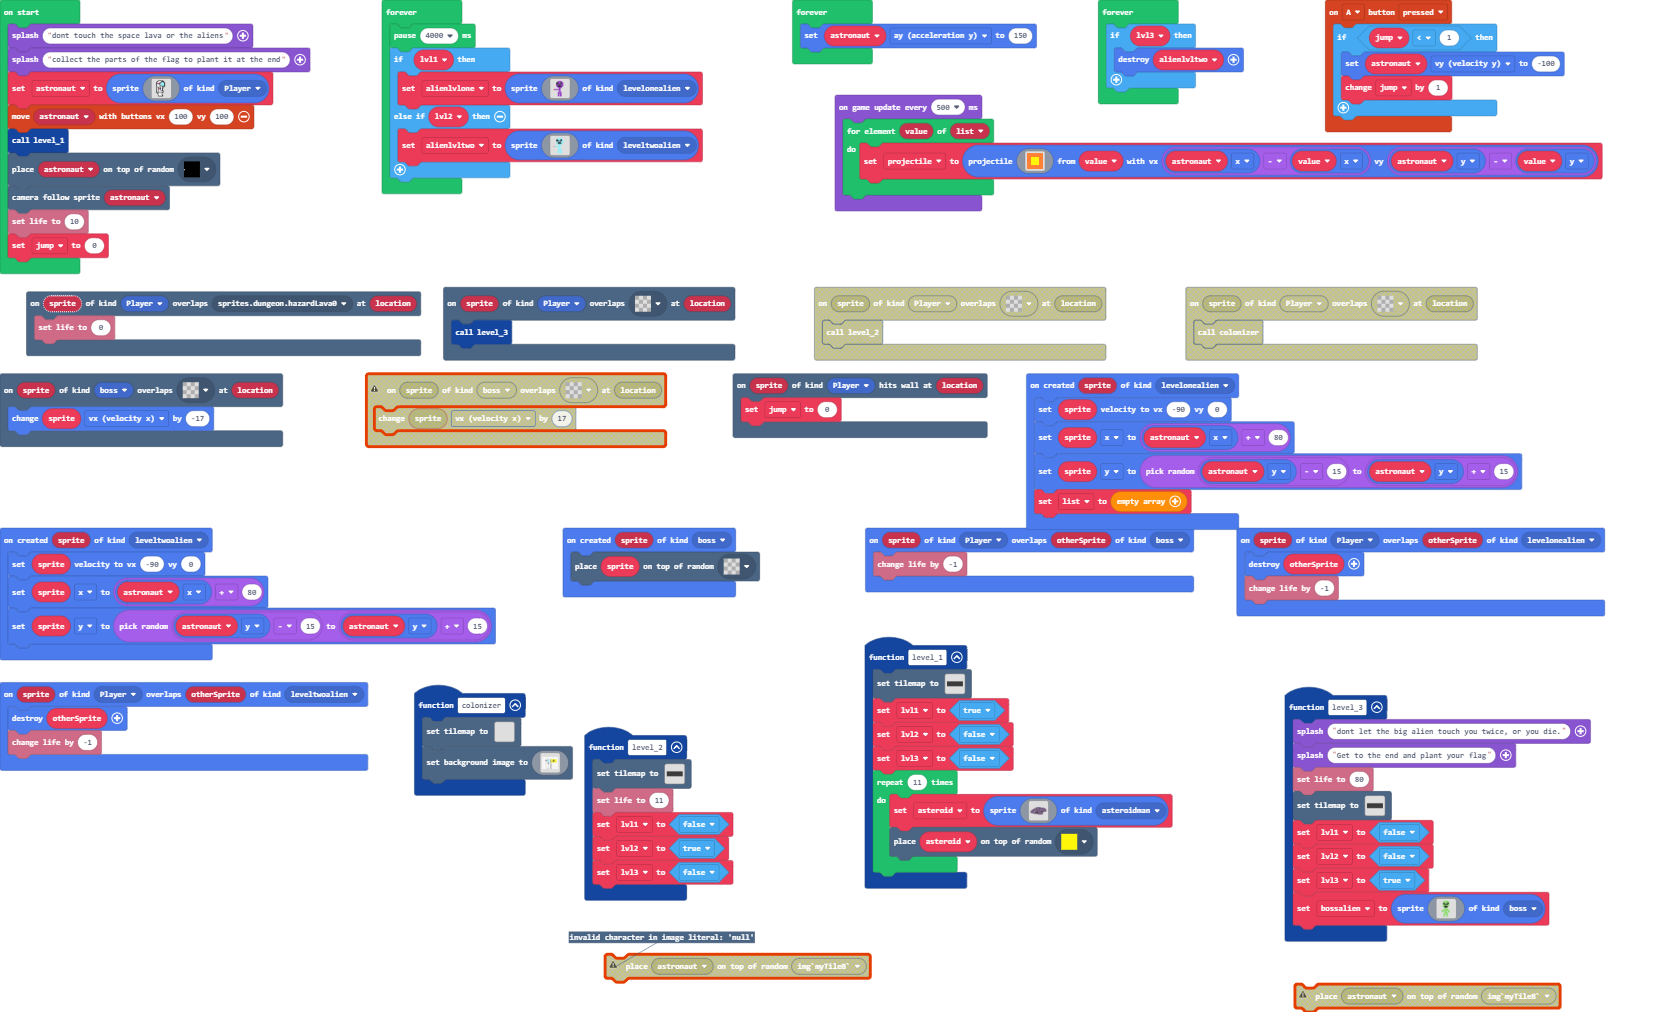
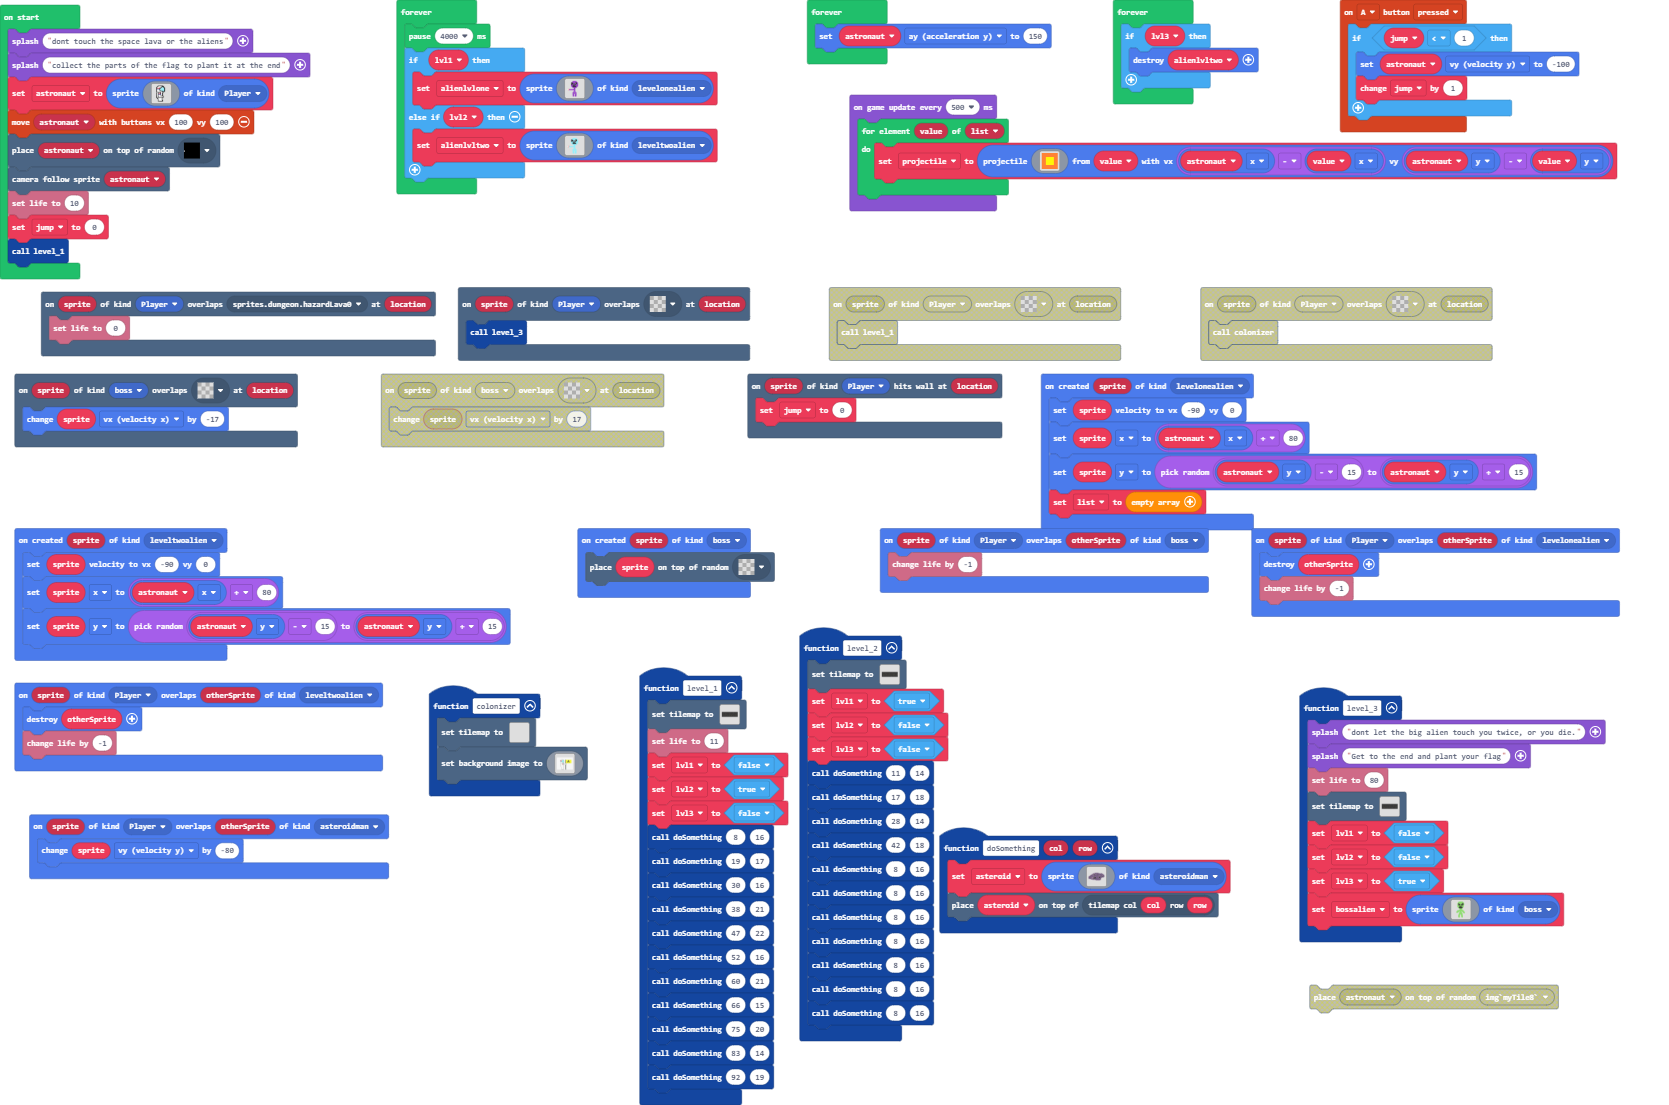
asteroid position

diff --git a/main.ts b/main.ts
@@ -163,12 +163,47 @@ sprites.onCreated(SpriteKind.levelonealien, function (sprite) {
 scene.onOverlapTile(SpriteKind.boss, assets.tile`transparency16`, function (sprite, location) {
     sprite.vx += -17
 })
+function doSomething (col: number, row: number) {
+    asteroid = sprites.create(img`
+        ........................................
+        ................ccccccccc...............
+        ............cccccccccccccccc..ccc.......
+        ..........ccbbbbccccbccccccccccccccc....
+        .........ccbbffbbcccbffbccccccccccccc...
+        .......cccbccffcbcccbbfbcccccccccccccc..
+        ......cccccbbfcfccccccccccccccccccbbccc.
+        ....ccccccccbbcccccccccccccbccccccbfbcc.
+        ...ccccccccccccccccccccccccbcbbfcbbffccc
+        .ccccccccccccccccccccccccbbbccbfcccfcccc
+        cccccccccccccccbbbbbcccccbffccccccccccc.
+        cccccccccbbcccbfffccccccbbfffccccccccc..
+        ccccccccbbbbbbbfffccccccbffffcccc.......
+        ccccccccbccfffffffcccccccbbbfccc........
+        ccccccccbbbcfffcffccccccccccccc.........
+        .cccccccccbbbbcbccccccccccccccc.........
+        ......cccccccbbcccccccccccccccc.........
+        ..........ccccccccccccccccccccc.........
+        ..................ccccccccccc...........
+        ........................................
+        `, SpriteKind.asteroidman)
+    tiles.placeOnTile(asteroid, tiles.getTileLocation(col, row))
+}
 function level_2 () {
-    tiles.setTilemap(tilemap`level7`)
-    info.setLife(11)
-    lvl1 = false
-    lvl2 = true
+    tiles.setTilemap(tilemap`level5`)
+    lvl1 = true
+    lvl2 = false
     lvl3 = false
+    doSomething(11, 14)
+    doSomething(17, 18)
+    doSomething(28, 14)
+    doSomething(42, 18)
+    doSomething(8, 16)
+    doSomething(8, 16)
+    doSomething(8, 16)
+    doSomething(8, 16)
+    doSomething(8, 16)
+    doSomething(8, 16)
+    doSomething(8, 16)
 }
 sprites.onCreated(SpriteKind.leveltwoalien, function (sprite) {
     sprite.setVelocity(-90, 0)
@@ -181,36 +216,26 @@ scene.onOverlapTile(SpriteKind.Player, assets.tile`transparency16`, function (sp
 sprites.onCreated(SpriteKind.boss, function (sprite) {
     tiles.placeOnRandomTile(sprite, assets.tile`transparency16`)
 })
+sprites.onOverlap(SpriteKind.Player, SpriteKind.asteroidman, function (sprite, otherSprite) {
+    sprite.vy += -80
+})
 function level_1 () {
-    tiles.setTilemap(tilemap`level5`)
-    lvl1 = true
-    lvl2 = false
+    tiles.setTilemap(tilemap`level7`)
+    info.setLife(11)
+    lvl1 = false
+    lvl2 = true
     lvl3 = false
-    for (let index = 0; index < 11; index++) {
-        asteroid = sprites.create(img`
-            ........................................
-            ................ccccccccc...............
-            ............cccccccccccccccc..ccc.......
-            ..........ccbbbbccccbccccccccccccccc....
-            .........ccbbffbbcccbffbccccccccccccc...
-            .......cccbccffcbcccbbfbcccccccccccccc..
-            ......cccccbbfcfccccccccccccccccccbbccc.
-            ....ccccccccbbcccccccccccccbccccccbfbcc.
-            ...ccccccccccccccccccccccccbcbbfcbbffccc
-            .ccccccccccccccccccccccccbbbccbfcccfcccc
-            cccccccccccccccbbbbbcccccbffccccccccccc.
-            cccccccccbbcccbfffccccccbbfffccccccccc..
-            ccccccccbbbbbbbfffccccccbffffcccc.......
-            ccccccccbccfffffffcccccccbbbfccc........
-            ccccccccbbbcfffcffccccccccccccc.........
-            .cccccccccbbbbcbccccccccccccccc.........
-            ......cccccccbbcccccccccccccccc.........
-            ..........ccccccccccccccccccccc.........
-            ..................ccccccccccc...........
-            ........................................
-            `, SpriteKind.asteroidman)
-        tiles.placeOnRandomTile(asteroid, assets.tile`myTile5`)
-    }
+    doSomething(8, 16)
+    doSomething(19, 17)
+    doSomething(30, 16)
+    doSomething(38, 21)
+    doSomething(47, 22)
+    doSomething(52, 16)
+    doSomething(60, 21)
+    doSomething(66, 15)
+    doSomething(75, 20)
+    doSomething(83, 14)
+    doSomething(92, 19)
 }
 function level_3 () {
     game.splash("dont let the big alien touch you twice, or you die.")
@@ -287,10 +312,10 @@ let projectile: Sprite = null
 let alienlvltwo: Sprite = null
 let alienlvlone: Sprite = null
 let bossalien: Sprite = null
-let asteroid: Sprite = null
 let lvl3 = false
 let lvl2 = false
 let lvl1 = false
+let asteroid: Sprite = null
 let list: Sprite[] = []
 let jump = 0
 let astronaut: Sprite = null
@@ -329,11 +354,11 @@ astronaut = sprites.create(img`
     .........fffffffff............
     `, SpriteKind.Player)
 controller.moveSprite(astronaut, 100, 100)
-level_1()
 tiles.placeOnRandomTile(astronaut, assets.tile`myTile4`)
 scene.cameraFollowSprite(astronaut)
 info.setLife(10)
 jump = 0
+level_1()
 forever(function () {
     pause(4000)
     if (lvl1) {
